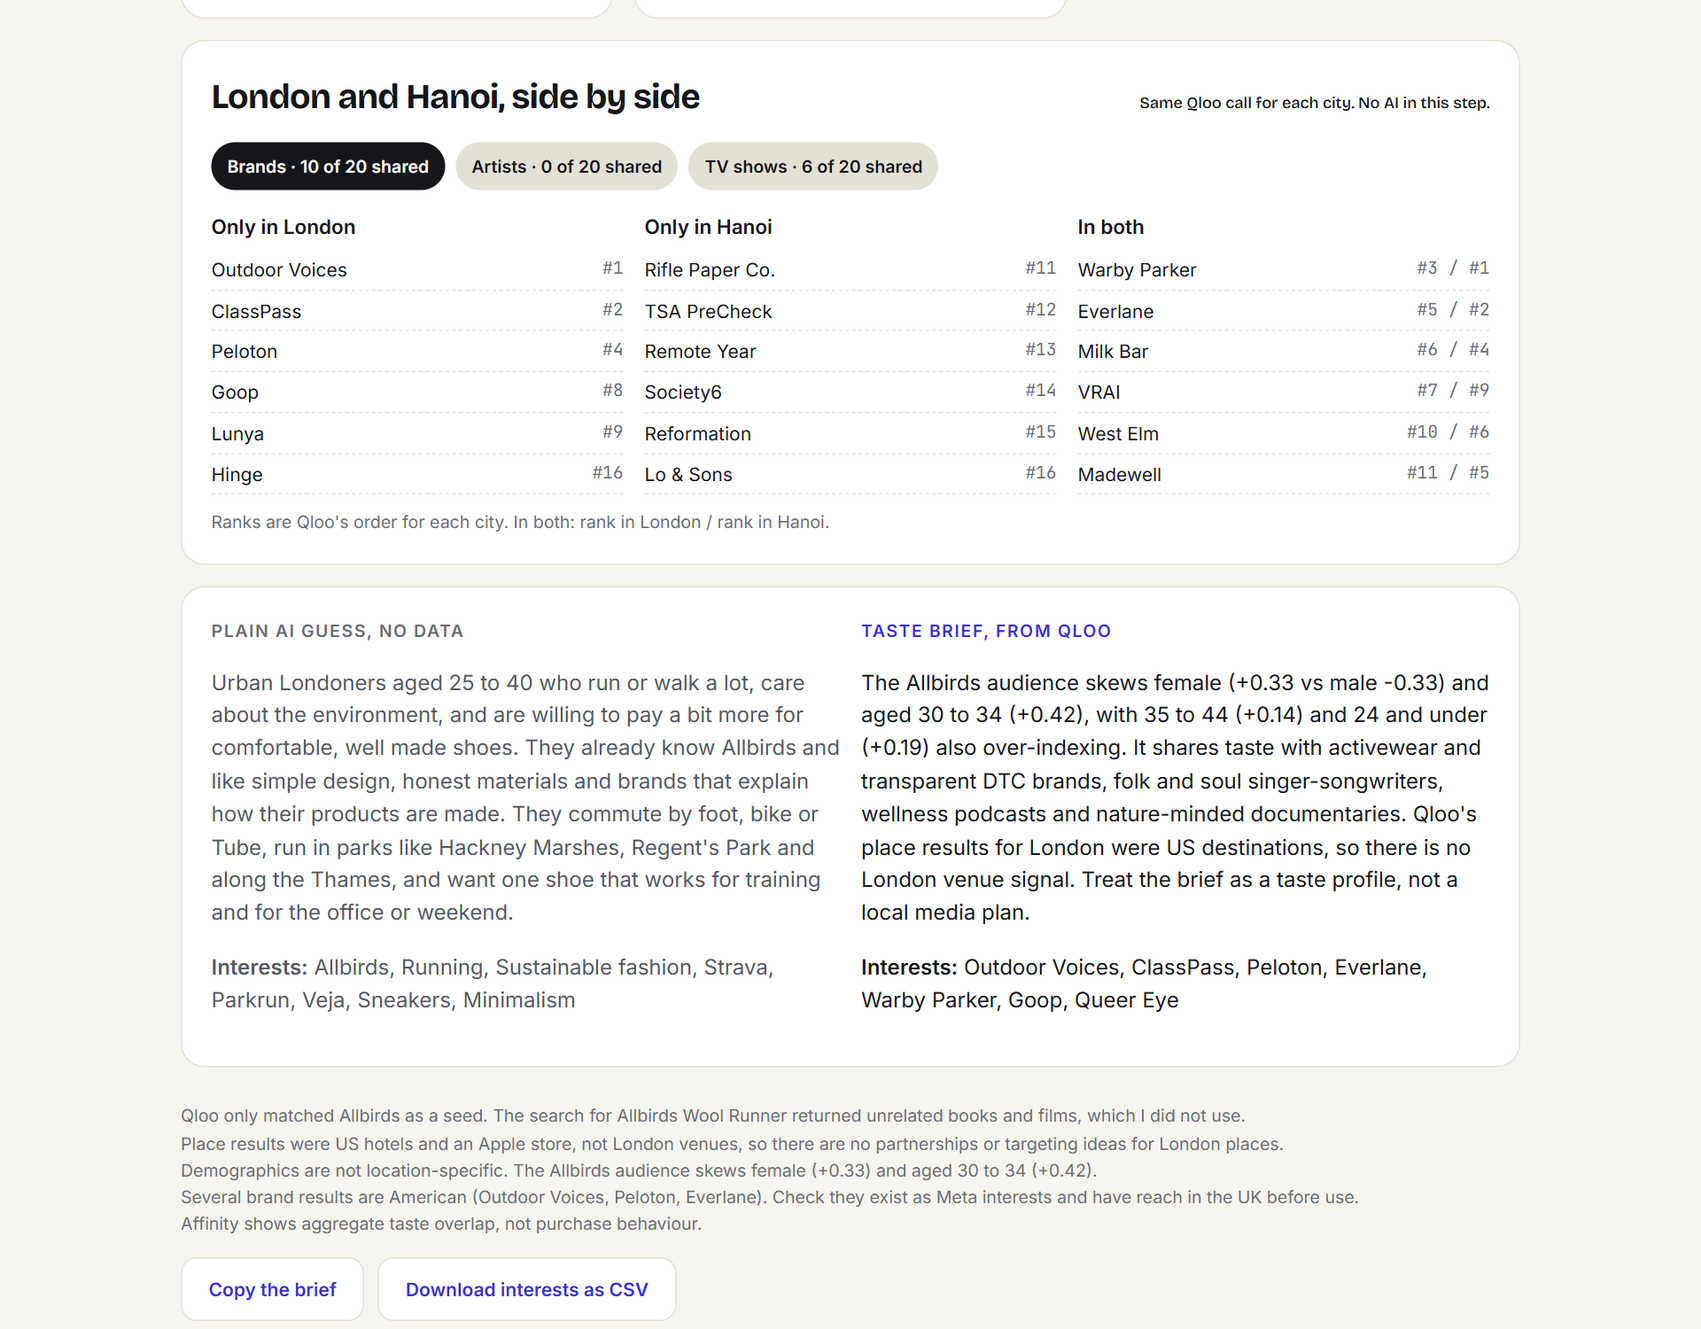
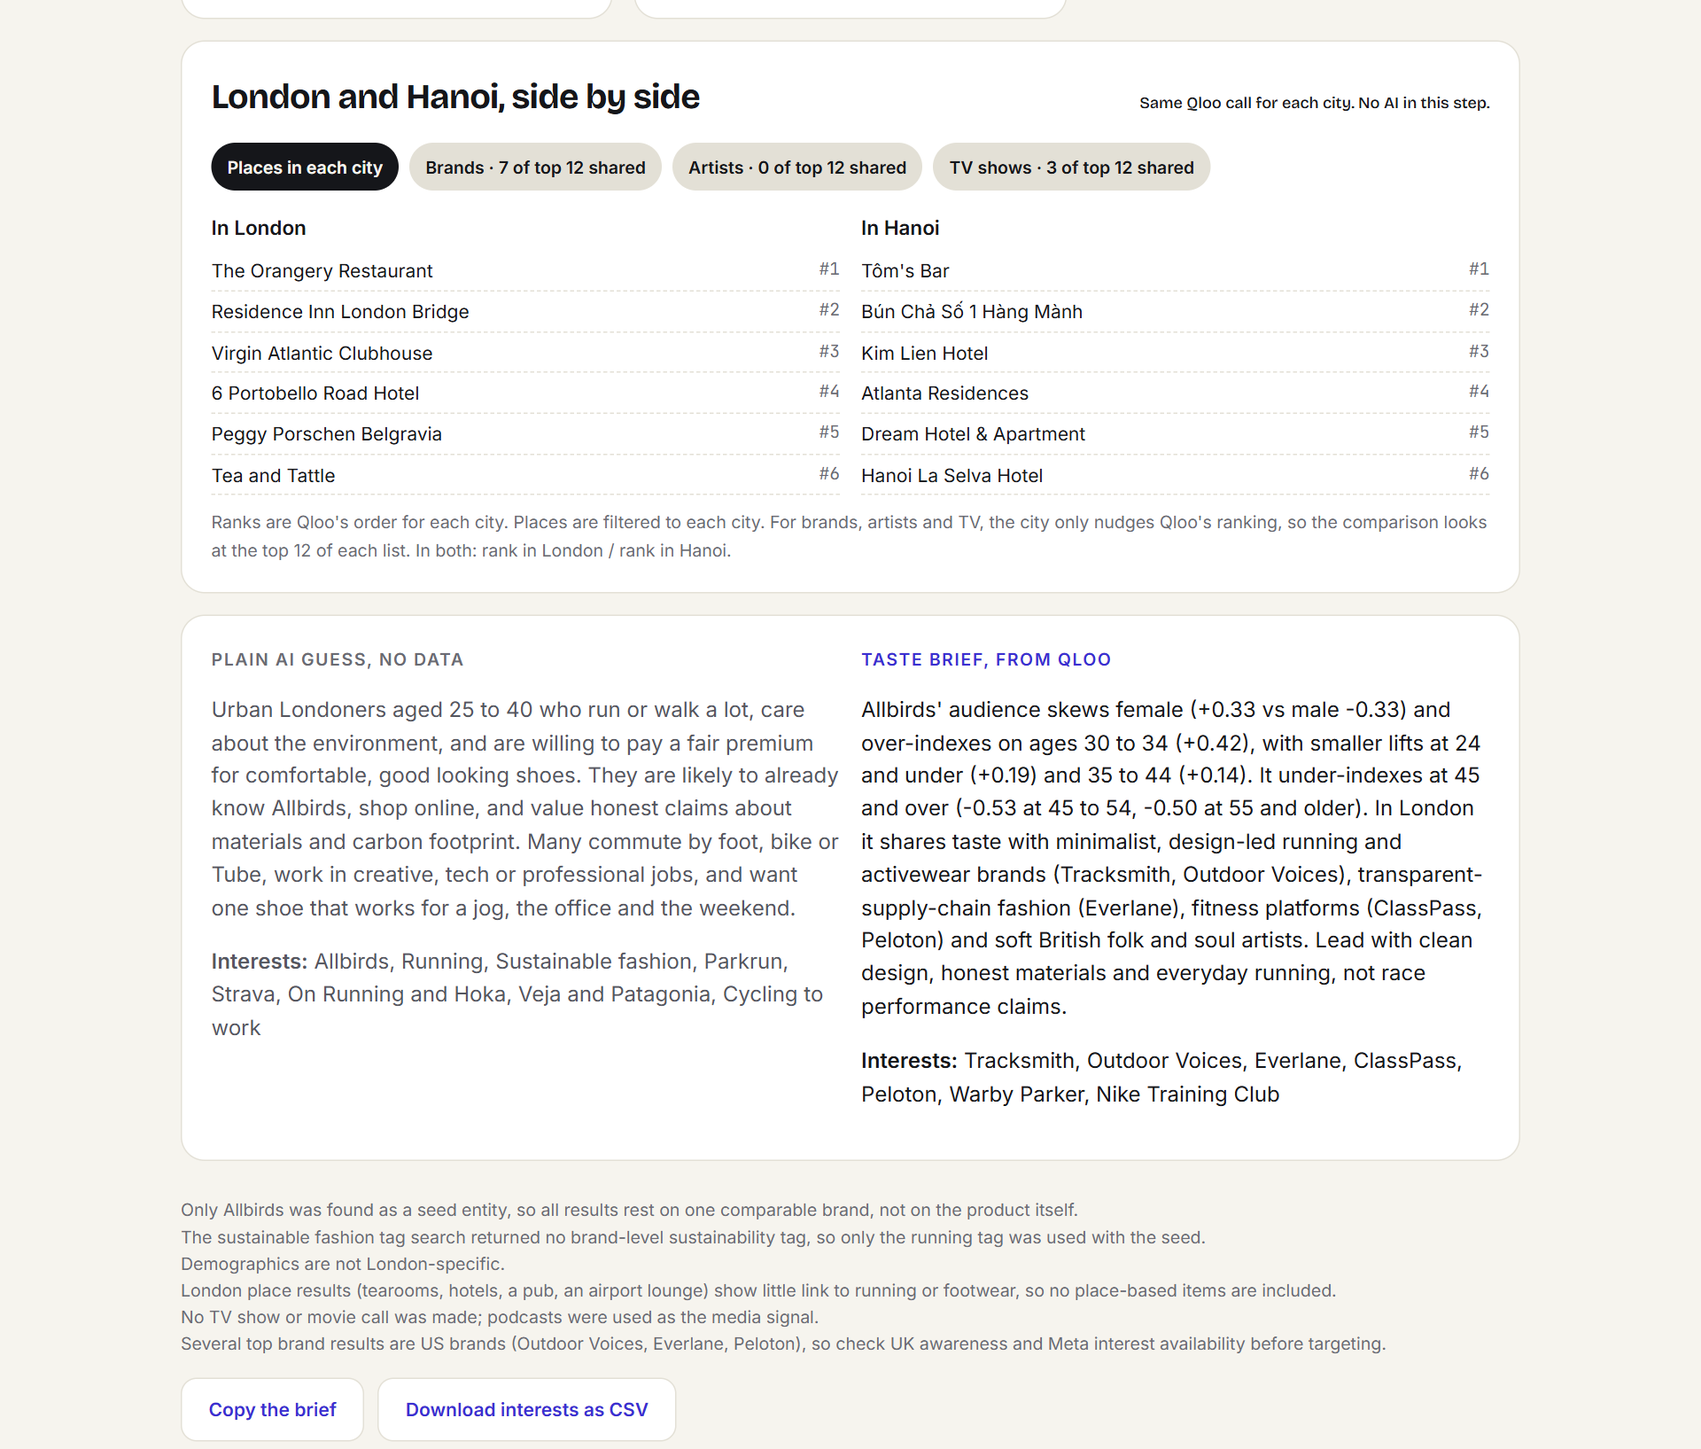
Product tags, places filtered to each city, top 12 comparison, interest names must match their Qloo source

Changed region(s): [[0.125, 0.4293, 0.875, 0.7667], [0.125, 0.0613, 0.875, 0.3987], [0.0938, 0.828, 0.8125, 0.9813]]

diff --git a/public/index.html b/public/index.html
@@ -170,15 +170,18 @@ function markets(m) {
   const city = (s) => esc(String(s).split(",")[0]);
   const row = (name, val) => `<div class="mk-row"><span>${esc(name)}</span><span>${esc(val)}</span></div>`;
   const col = (title, rows) => `<div class="mk"><h3>${title}</h3>${rows || "<p class='note'>none</p>"}</div>`;
-  const panes = types.map((t, i) => `<div class="grid" data-pane="${i}"${i ? " hidden" : ""}>
+  const panes = types.map((t, i) => t.filtered ? `<div class="grid" data-pane="${i}"${i ? " hidden" : ""}>
+      ${col(`In ${city(m.market_a)}`, list(t.only_a).concat(list(t.shared).map((e) => ({ name: e.name, rank: e.rank_a }))).sort((x, y) => x.rank - y.rank).map((e) => row(e.name, `#${e.rank}`)).join(""))}
+      ${col(`In ${city(m.market_b)}`, list(t.only_b).concat(list(t.shared).map((e) => ({ name: e.name, rank: e.rank_b }))).sort((x, y) => x.rank - y.rank).map((e) => row(e.name, `#${e.rank}`)).join(""))}
+    </div>` : `<div class="grid" data-pane="${i}"${i ? " hidden" : ""}>
       ${col(`Only in ${city(m.market_a)}`, list(t.only_a).map((e) => row(e.name, `#${e.rank}`)).join(""))}
       ${col(`Only in ${city(m.market_b)}`, list(t.only_b).map((e) => row(e.name, `#${e.rank}`)).join(""))}
       ${col("In both", list(t.shared).map((e) => row(e.name, `#${e.rank_a} / #${e.rank_b}`)).join(""))}
     </div>`).join("");
-  const tabs = types.map((t, i) => `<button type="button" data-tab="${i}" aria-pressed="${i ? "false" : "true"}">${esc(LISTS[typeName(t.type)] || typeName(t.type))} · ${t.overlap} of ${Math.max(t.size_a, t.size_b)} shared</button>`).join("");
+  const tabs = types.map((t, i) => `<button type="button" data-tab="${i}" aria-pressed="${i ? "false" : "true"}">${t.filtered ? `${esc(LISTS[typeName(t.type)] || typeName(t.type))} in each city` : `${esc(LISTS[typeName(t.type)] || typeName(t.type))} · ${t.overlap} of top ${Math.max(t.size_a, t.size_b)} shared`}</button>`).join("");
   return `<section class="panel card markets"><h2><span>${city(m.market_a)} and ${city(m.market_b)}, side by side</span><small>Same Qloo call for each city. No AI in this step.</small></h2>
     <div class="tabs" role="group" aria-label="List type">${tabs}</div>${panes}
-    <p class="note">Ranks are Qloo's order for each city. In both: rank in ${city(m.market_a)} / rank in ${city(m.market_b)}.</p></section>`;
+    <p class="note">Ranks are Qloo's order for each city. Places are filtered to each city. For brands, artists and TV, the city only nudges Qloo's ranking, so the comparison looks at the top ${esc(m.take || 12)} of each list. In both: rank in ${city(m.market_a)} / rank in ${city(m.market_b)}.</p></section>`;
 }
 
 // The same question asked of the model with no data, to show what only Qloo adds.
@@ -219,8 +222,12 @@ function stepText(run, s) {
   if (s.tool === "insights") return `Read ${esc(typeName(i.filter_type))} tastes${city ? ` in ${esc(city)}` : ""}${n(s.n)}${err}`;
   if (s.tool === "demographics") return `Read the age and gender index${err}`;
   if (s.tool === "tags") return `Looked up Qloo tags for “${esc(i.query)}”${n(s.n)}${err}`;
-  if (s.tool === "compare") { const [a, b] = list(i.markets).map((x) => String(x).split(",")[0]); return `Compared ${esc(typeName(i.filter_type))} lists for ${esc(a)} and ${esc(b)}${s.n !== undefined ? ` <span class="n">${s.n} of ${s.of} shared</span>` : ""}${err}`; }
-  if (s.tool === "submit_brief") return s.error ? `Sent the brief back to the model: ${esc(s.error)}` : "Wrote the brief and checked every line against Qloo";
+  if (s.tool === "compare") {
+    const [a, b] = list(i.markets).map((x) => String(x).split(",")[0]);
+    if (i.filter_type === "urn:entity:place") return `Found places in ${esc(a)} and in ${esc(b)} that this audience likes${err}`;
+    return `Compared ${esc(typeName(i.filter_type))} lists for ${esc(a)} and ${esc(b)}${s.n !== undefined ? ` <span class="n">${s.n} of top ${s.of} shared</span>` : ""}${err}`;
+  }
+  if (s.tool === "submit_brief") return s.error ? "Sent the first draft back to the model to fix its format" : "Wrote the brief and checked every line against Qloo";
   if (s.tool === "baseline_done") return "Wrote a plain AI guess to compare against";
   return `${esc(s.tool)}${n(s.n)}${err}`;
 }

diff --git a/src/evidence.js b/src/evidence.js
@@ -36,11 +36,14 @@ export function registryFrom(calls) {
     for (const e of output) {
       if (!e?.entity_id) continue;
       const prev = entities.get(e.entity_id);
-      // keep the insights view (it carries the affinity for this audience) over the plain search hit
-      if (prev && prev.via === "insights" && tool !== "insights") continue;
+      // the same entity can come back from several calls (with and without tags, several cities) with different
+      // affinities: keep every number Qloo returned for it, and show the first insights one
+      const affinities = [...(prev?.affinities || []), ...(typeof e.affinity === "number" ? [e.affinity] : [])];
+      if (prev && prev.via === "insights" && tool !== "insights") { prev.affinities = affinities; continue; }
       entities.set(e.entity_id, {
-        entity_id: e.entity_id, name: e.name, type: e.type, affinity: e.affinity ?? null,
-        via: tool, location: tool === "insights" ? input?.location || null : null,
+        entity_id: e.entity_id, name: e.name, type: e.type,
+        affinity: prev?.via === "insights" ? prev.affinity : e.affinity ?? null, affinities,
+        via: prev?.via === "insights" ? "insights" : tool, location: tool === "insights" ? input?.location || prev?.location || null : null,
       });
     }
   }
@@ -80,10 +83,15 @@ export function verifyItem(field, item, reg) {
   const demographic = demoVals.length > 0 && /\b(age|aged|female|male|women|men|gender|younger|older|skew\w*|over-?index\w*|\d{2}\s*(?:-|–|to)\s*\d{2})\b/i.test(`${label} ${text}`);
   if (verified.length && !nonSeed.length && !seedNamed && !demographic) problems.push("only the seed entity is cited, and the claim is not about the seed");
   if (SINGLE.has(field) && /\s\/\s|\s\+\s/.test(label)) problems.push("combines several entities in one line");
+  // a Meta interest or partner names one Qloo result: its label must be that result's name (or contain it, or vice versa)
+  if (SINGLE.has(field) && verified.length && labelN.length >= 2
+    && !verified.some((e) => { const n = norm(e.name); return n.length >= 2 && (labelN.includes(n) || n.includes(labelN)); })) {
+    problems.push(`named "${label}" but cites ${verified.map((e) => e.name).join(", ")}`);
+  }
   // numbers in the free text must be ones Qloo returned for the cited entities: an affinity, or a demographic index
   for (const m of text.matchAll(/\b0\.\d{2,3}\b/g)) {
     const v = Number(m[0]);
-    const isAffinity = verified.some((e) => typeof e.affinity === "number" && Math.abs(e.affinity - v) < 0.0015);
+    const isAffinity = verified.some((e) => [e.affinity, ...(e.affinities || [])].some((a) => typeof a === "number" && Math.abs(a - v) < 0.0015));
     const isDemo = demographic && demoVals.some((d) => Math.abs(d - v) < 0.006);
     if (!isAffinity && !isDemo) problems.push(`${m[0]} does not match a number Qloo returned for the cited entities`);
   }

diff --git a/src/agent.js b/src/agent.js
@@ -11,14 +11,18 @@ Method:
 1. search: find 1-3 Qloo entities that stand for the product: the product or brand itself if Qloo knows it, else the
    closest comparable brands (use the reference brands when given). If a search match is clearly the wrong thing (a
    magazine for a shoe brand), do not use it, and say so in caveats.
-2. insights: from those seed entity ids, pull cross-domain affinities in the market: at least brands, artists and one of
-   tv_show / movie / podcast / place. Pass the market as location when it is a city or country.
-3. demographics: get the age and gender skew of the seed entities (Qloo's demographics are not location-specific).
-4. submit_brief. Rules for every item:
+2. tags: look up 1 or 2 Qloo tags for the product category itself (e.g. "running" for running shoes, "coffee" for a
+   coffee subscription); prefer brand or keyword tags. Then make at least one insights call that passes those tag_ids
+   together with the seed entity_ids, so the brief reflects the product and not only the comparable brand.
+3. insights: from the seed entity ids, pull cross-domain affinities in the market: at least brands, artists and one of
+   tv_show / movie / podcast. Pass the market as location. For places, also pass filter_location = the city, so the
+   places are really in that city.
+4. demographics: get the age and gender skew of the seed entities (Qloo's demographics are not location-specific).
+5. submit_brief. Rules for every item:
    - entity_ids: the Qloo entity_id(s) of the results the item rests on, copied exactly from the tool output. Cite the
      non-seed results that support the item. A seed may be cited only for an item about the seed itself.
    - evidence: short notes in the form "Name (affinity 0.956)", using the exact numbers Qloo returned.
-   - One Meta interest or partner per item, never "A / B".
+   - One Meta interest or partner per item, never "A / B", and name it as the Qloo result you cite.
    - Affinity describes aggregate taste overlap, not purchases and not any individual: write "over-indexes on",
      "shares taste with", never "buys" or "will".
    - Creative angles and the landing page are your interpretation: cite the results they are built on.
@@ -56,7 +60,8 @@ export const TOOLS = [
         filter_type: { type: "string", enum: INSIGHT_TYPES },
         entity_ids: strArr,
         tag_ids: strArr,
-        location: { type: "string", description: "city or country in natural language" },
+        location: { type: "string", description: "city or country in natural language: nudges the ranking toward it" },
+        filter_location: { type: "string", description: "for places only: keep places located in this city" },
         take: { type: "integer" },
       },
       required: ["filter_type"],

diff --git a/src/markets.js b/src/markets.js
@@ -2,7 +2,10 @@
 // for each market and the two result lists are compared, so every row on the page is a Qloo number, not a choice the
 // model made (the review of 20 Oct 2026 found that the first version only diffed the two model-written briefs).
 
-export const COMPARE_TYPES = ["urn:entity:brand", "urn:entity:artist", "urn:entity:tv_show"];
+export const COMPARE_TYPES = ["urn:entity:place", "urn:entity:brand", "urn:entity:artist", "urn:entity:tv_show"];
+// For places the city is a filter (only places located there); for the rest it only nudges Qloo's ranking, so the
+// comparison looks at the top of each list, where the city signal matters, not at the long tail.
+const FILTERED = new Set(["urn:entity:place"]);
 
 /** Compare two result lists of the same type: shared (with both affinities), only in A, only in B, in Qloo's order. */
 export function diffLists(listA, listB, keep = 6) {
@@ -18,12 +21,13 @@ export function diffLists(listA, listB, keep = 6) {
 }
 
 /** Run the comparison. onStep(entry) reports each pair of calls, like the agent's steps. */
-export async function compareMarkets({ qloo, seedIds, marketA, marketB, types = COMPARE_TYPES, take = 20, onStep = () => {} }) {
+export async function compareMarkets({ qloo, seedIds, marketA, marketB, types = COMPARE_TYPES, take = 12, onStep = () => {} }) {
   if (!seedIds?.length) return { error: "no seed entity to compare" };
   const rows = [];
   for (const type of types) {
     const [a, b] = await Promise.all([marketA, marketB].map((location) =>
-      qloo.insights({ filter_type: type, entity_ids: seedIds, location, take }).catch((e) => ({ error: String(e.message || e) }))));
+      qloo.insights({ filter_type: type, entity_ids: seedIds, location, filter_location: FILTERED.has(type) ? location : undefined, take })
+        .catch((e) => ({ error: String(e.message || e) }))));
     if (a.error || b.error) {
       onStep({ tool: "compare", input: { filter_type: type, markets: [marketA, marketB] }, error: a.error || b.error });
       rows.push({ type, error: a.error || b.error });
@@ -31,7 +35,7 @@ export async function compareMarkets({ qloo, seedIds, marketA, marketB, types = 
     }
     const d = diffLists(a, b);
     onStep({ tool: "compare", input: { filter_type: type, markets: [marketA, marketB] }, n: d.overlap, of: Math.max(d.size_a, d.size_b) });
-    rows.push({ type, ...d });
+    rows.push({ type, filtered: FILTERED.has(type), ...d });
   }
   return { market_a: marketA, market_b: marketB, seeds: seedIds, take, types: rows };
 }

diff --git a/test/agent.test.js b/test/agent.test.js
@@ -250,3 +250,35 @@ test("evidence gate v2: an age/gender line may rest on the seed when its numbers
   assert.deepEqual(r.rows.map((x) => x.grounded), [true, false]);
   assert.match(r.rows[1].problems.join(), /0\.71 does not match/);
 });
+
+test("evidence gate v3: a Meta interest must be named like the Qloo result it cites", async () => {
+  const { registryFrom, checkEvidence } = await import("../src/evidence.js");
+  const reg = registryFrom(REG_CALLS);
+  const r = checkEvidence({ meta_interests: [
+    { interest: "Outdoor Voices", entity_ids: ["OV"], evidence: ["0.966"] },
+    { interest: "Studio fitness", entity_ids: ["OV"], evidence: ["Outdoor Voices"] },
+  ] }, reg);
+  assert.deepEqual(r.rows.map((x) => x.grounded), [true, false]);
+  assert.match(r.rows[1].problems.join(), /named "Studio fitness" but cites Outdoor Voices/);
+});
+
+test("markets: places are filtered to each city, other types only nudged", async () => {
+  const { compareMarkets } = await import("../src/markets.js");
+  const calls = [];
+  const qloo = { ...mockQloo(), async insights(args) { calls.push(args); return mockQloo().insights(args); } };
+  const m = await compareMarkets({ qloo, seedIds: ["S1"], marketA: "London", marketB: "Hanoi" });
+  const place = calls.filter((c) => c.filter_type === "urn:entity:place");
+  assert.deepEqual(place.map((c) => c.filter_location).sort(), ["Hanoi", "London"]);
+  assert.ok(calls.filter((c) => c.filter_type !== "urn:entity:place").every((c) => c.filter_location === undefined));
+  assert.equal(m.types.find((t) => t.type === "urn:entity:place").filtered, true);
+});
+
+test("evidence gate v3: an entity returned by two calls keeps both affinities, and either may be quoted", async () => {
+  const { registryFrom, checkEvidence } = await import("../src/evidence.js");
+  const reg = registryFrom([...REG_CALLS, { tool: "insights", input: { filter_type: "urn:entity:brand", entity_ids: ["SEED"], tag_ids: ["T"] },
+    output: [{ name: "Outdoor Voices", entity_id: "OV", type: "urn:entity:brand", affinity: 0.912 }] }]);
+  assert.equal(reg.entities.get("OV").affinity, 0.966);
+  const r = checkEvidence({ meta_interests: [{ interest: "Outdoor Voices", entity_ids: ["OV"], evidence: ["0.912"] },
+    { interest: "Outdoor Voices", entity_ids: ["OV"], evidence: ["0.950"] }] }, reg);
+  assert.deepEqual(r.rows.map((x) => x.grounded), [true, false]);
+});

diff --git a/src/llm.js b/src/llm.js
@@ -55,10 +55,12 @@ export function mockLLM() {
     const refs = ((first.match(/competitors \(optional\): ([^\n]*)/) || [])[1] || "").split(",").map((x) => x.trim()).filter((x) => x && x !== "none");
     const seedQuery = refs[0] || product;
     const ids = () => (Object.entries(seen).find(([k]) => k.startsWith("search:"))?.[1] || []).map((e) => e.entity_id).slice(0, 2);
+    const tagIds = () => (Object.entries(seen).find(([k]) => k.startsWith("tags:"))?.[1] || []).map((t) => t.tag_id).slice(0, 2);
     const plan = [
       () => [{ name: "search", input: { query: seedQuery, types: "urn:entity:brand", take: 3 } }],
+      () => [{ name: "tags", input: { query: product.split(",")[0], take: 2 } }],
       () => [
-        { name: "insights", input: { filter_type: "urn:entity:brand", entity_ids: ids(), location: market, take: 6 } },
+        { name: "insights", input: { filter_type: "urn:entity:brand", entity_ids: ids(), tag_ids: tagIds(), location: market, take: 6 } },
         { name: "insights", input: { filter_type: "urn:entity:artist", entity_ids: ids(), location: market, take: 6 } },
         { name: "insights", input: { filter_type: "urn:entity:podcast", entity_ids: ids(), location: market, take: 4 } },
         { name: "demographics", input: { entity_ids: ids() } },

diff --git a/src/qloo.js b/src/qloo.js
@@ -59,13 +59,15 @@ export function makeQloo({ apiKey, fetchImpl = fetch, base = QLOO_BASE, concurre
       const r = await get("/search", { query, types, take });
       return (r.results || []).map(slimEntity);
     },
-    async insights({ filter_type, entity_ids, tag_ids, location, take = 10 }) {
+    // location nudges the ranking toward a city (signal); filter_location keeps only entities located there (places)
+    async insights({ filter_type, entity_ids, tag_ids, location, filter_location, take = 10 }) {
       if (!INSIGHT_TYPES.includes(filter_type)) throw new Error(`unsupported filter.type ${filter_type}`);
       const r = await get("/v2/insights", {
         "filter.type": filter_type,
         "signal.interests.entities": entity_ids,
         "signal.interests.tags": tag_ids,
         "signal.location.query": location,
+        "filter.location.query": filter_location,
         take,
       });
       return (r.results?.entities || []).map(slimEntity);

diff --git a/README.md b/README.md
@@ -10,13 +10,15 @@ Built for the [Qloo Agentic Hackathon](https://qloo.devpost.com/).
 
 ## How it works
 - `src/agent.js`: tool-using agent loop on Claude. Tools: `search`, `insights`, `demographics`, `tags`, and
-  `submit_brief` (the only way to finish). Every item of the brief must cite the Qloo `entity_id`s it rests on.
+  `submit_brief` (the only way to finish). The agent looks up tags for the product category and passes them next to
+  the brand, so the brief reflects the product too. Every item must cite the Qloo `entity_id`s it rests on.
 - `src/evidence.js`: the evidence gate. A claim counts as grounded only when the entity ids it cites were returned by a
   Qloo call in the same run; the seed entity grounds only claims about itself, or an age/gender claim whose numbers are
   Qloo's demographics for that seed; affinity numbers quoted in the text must match what Qloo returned; one Meta interest
   per line. The page shows the verified Qloo results (name, affinity, type) next to each line, and flags the rest.
-- `src/markets.js`: the second market, without a model in between: the same Qloo insights call on the agent's seed
-  entities for each market, compared by rank and affinity (what is only in A, only in B, in both).
+- `src/markets.js`: the second market, without a model in between. Places use `filter.location.query`, so each list is
+  real places in that city. Brands, artists and TV use the same insights call per city; the city only nudges Qloo's
+  ranking, so the top 12 of each list are compared (only in A, only in B, in both).
 - `src/qloo.js`: Qloo client for `https://hackathon.api.qloo.com` (GET + `X-Api-Key`), trims verbose fields, keeps at
   most two requests in flight, retries HTTP 429 with backoff, times out hung calls.
 - `src/llm.js`: Claude adapter (Messages API tool use) and a scripted stand-in model for tests and synthetic mode.
@@ -35,7 +37,7 @@ live runs. When neither applies the page runs on synthetic data and says so in a
 ## Run
 Requires Node 20 or newer.
 ```bash
-npm test                          # 19 tests, no network
+npm test                          # 22 tests, no network
 node scripts/evidence-gate.mjs    # agent end to end on synthetic data; fails if any claim is unsupported
 npm run dev                       # local Worker on synthetic data (MOCK=1)
 ```
